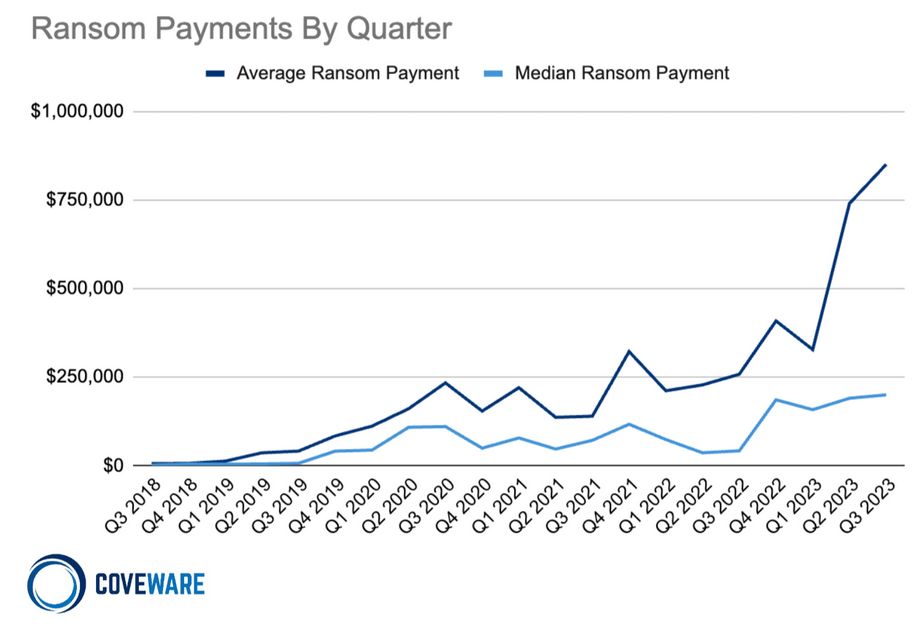
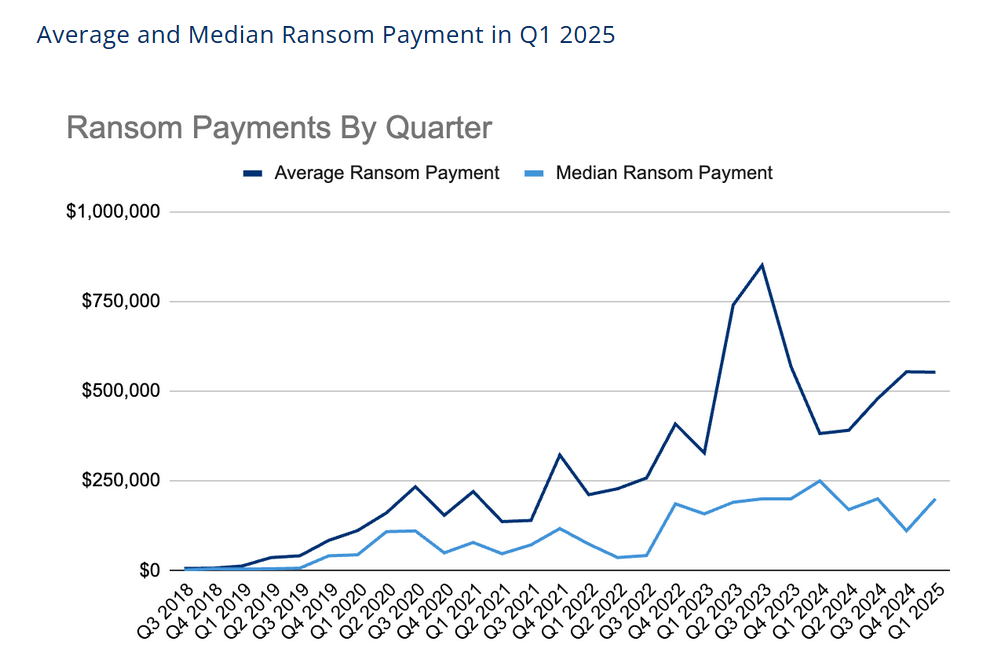
Update session: ransomware

diff --git a/slides/08-ransomware.md b/slides/08-ransomware.md
@@ -26,7 +26,8 @@ Juan Vera del Campo - <juan.vera@professor.universidadviu.com>
 1. [Incident Response](#3)
 1. [Ransomware](#11)
 1. [Examples: Venus, Conti, Babuk, LockBit](#20)
-1. [Managing an incident](#33)
+1. [Managing an incident](#34)
+1. [Recommendations and references](#43)
 
 Las transparencias de esta sesión están en inglés
 
@@ -220,7 +221,7 @@ Forensic analysts, specially if they must act as Expert Witness, are external to
 
 ![center w:30em](images/ransomware/Ransom+Payments.png)
 
-> https://www.coveware.com/blog/2023/10/27/scattered-ransomware-attribution-blurs-focus-on-ir-fundamentals
+> https://www.coveware.com/blog/2025/4/29/the-organizational-structure-of-ransomware-threat-actor-groups-is-evolving-before-our-eyes
 
 <!--
 El ransomware es uno de los mayores peligros para una compañía, y también uno de los ataques más lucrativos...
@@ -262,7 +263,7 @@ Notice:
 
 ## The infection chain
 
-![center w:35em](images/ransomware/infection-chain.png)
+![center w:30em](images/ransomware/infection-chain.png)
 
 > https://www.trendmicro.com/en_us/research/21/i/examining-the-cring-ransomware-techniques.html
 > Steps standarized in the Mitre Attack Matrix: https://attack.mitre.org/
@@ -305,10 +306,10 @@ Por ejemplo: nosotros hemos detectado el "modus operandi" asociado a APT41 varia
 
 ---
 
-![center w:35em](images/ransomware/ransomware-type.png)
+![center w:32em](images/ransomware/ransomware-type.png)
 
-> https://www.coveware.com/blog/2023/4/28/big-game-hunting-is-back-despite-decreasing-ransom-payment-amounts
-> [Main groups in 2023](https://www.blackfog.com/the-top-10-ransomware-groups-of-2023/)
+> [The organizational structure of ransomware threat actor groups is evolving before our eyes](https://www.coveware.com/blog/2025/4/29/the-organizational-structure-of-ransomware-threat-actor-groups-is-evolving-before-our-eyes)
+> [The New Ransomware Groups Shaking Up 2025](https://thehackernews.com/2025/03/the-new-ransomware-groups-shaking-up.html)
 
 <!--
 Fijaos que no hay tantas variantes de ransomware: solo unas pocas familias. Fijas también en que cambian muy rápidamente: de las 10 variantes más usadas, 5 han aparecido en los últimos 3 meses y otras 5 han desaparecido. Es un mundo que cambia MUY RAPIDAMENTE
@@ -422,31 +423,47 @@ Steps:
 
 ---
 
-![center](images/ransomware/lockbitweb.png)
+![center w:25em](images/ransomware/lockbitweb.png)
 
 The blog is in the Dark Web (onion) and the address changes frequently
 
-> https://ransomwatch.telemetry.ltd/#/profiles?id=lockbit3_fs
+> https://ransomwatch.telemetry.ltd/#/INDEX
 
 ---
 
 May 2024: lockbit defaced, again
 
-![center w:30em](images/ransomware/lockbit-deface.png)
+![center w:25em](images/ransomware/lockbit-deface.png)
 
 The mastermind behind LockBit, one of the most prolific and damaging ransomware groups in history, is a 31-year-old Russian named Dmitry Yuryevich Khoroshev, aka “LockbitSupp.”: https://www.wired.com/story/lockbitsupp-lockbit-ransomware/
+
+## Current situation (2025)
+
+- Poor quality of decryption tools. Declining rate of payments. Less skilled programmers.
+- Cyber extortion is less anonymous:
+    - [Black Basta exposed: A look at a cybercrime data leak](https://intel471.com/blog/black-basta-exposed-a-look-at-a-cybercrime-data-leak)
+    - [NCA published the identities of key Lockbit affiliates](https://www.nationalcrimeagency.gov.uk/news/lockbit-leader-unmasked-and-sanctioned)
+    - [Snowfake was identified and arrested in October](https://www.wired.com/story/connor-moucka-snowflake-hack-arrest-extradition/)
+- Supply chain is under constant threat of disturbance.
+
+> https://www.coveware.com/blog/2025/4/29/the-organizational-structure-of-ransomware-threat-actor-groups-is-evolving-before-our-eyes
 
 # Managing an incident
 <!-- _class: lead -->
 
 ---
 
-1. **Identification**: gain an idea of what the attacker did
-1. **Containment**: perform short-term containment, for example by isolating the network segment that is under attack. Then focus on long-term containment, which involves temporary fixes to allow systems to be used in production, while rebuilding clean systems.
-1. **Eradication**: remove malware from all affected systems, identify the root cause of the attack, and take action to prevent similar attacks in the future.
-1. **Recovery**: bring affected production systems back online carefully, to prevent additional attacks. Test, verify and monitor affected systems to ensure they are back to normal activity
+1. **Identification**: what happened?
+1. **Containment**: Examples: isolate the network segment that is under attack; temporary fixes to allow systems to be used in production; rebuild clean systems
+1. **Eradication**: remove malware from all affected systems; change passwords
+1. **Recovery**: bring affected production systems back online carefully
 
-## Gain a better idea of what the attacker did
+![bg right:40% w:90%](images/ransomware/incident-management.png)
+
+> https://www.eccouncil.org/cybersecurity-exchange/incident-handling/what-is-incident-response-life-cycle/
+> https://nvlpubs.nist.gov/nistpubs/specialpublications/nist.sp.800-61r2.pdf
+
+## What happened?
 
 **Initial detection rarely tells a complete story**
 
@@ -468,7 +485,19 @@ Image: https://s3-us-west-2.amazonaws.com/courses-images-archive-read-only/wp-co
 
 ![center w:25em](images/ransomware/entrypoint.png)
 
-> https://www.coveware.com/blog/2023/10/27/scattered-ransomware-attribution-blurs-focus-on-ir-fundamentals
+> https://www.coveware.com/blog/2025/4/29/the-organizational-structure-of-ransomware-threat-actor-groups-is-evolving-before-our-eyes
+
+## Techniques
+
+![center w:35em](images/ransomware/objectives.png)
+
+<!--
+- Exfiltration of data
+- Lateral movement to other PCs
+- Evasion
+- Impact: ransomware
+- C&C
+-->
 
 ---
 
@@ -497,6 +526,7 @@ Image: https://s3-us-west-2.amazonaws.com/courses-images-archive-read-only/wp-co
 ![center](images/ransomware/unplanned-backup.png)
 
 > https://www.sentinelone.com/cybersecurity-101/what-is-triple-extortion/
+> https://news.sky.com/story/who-are-scattered-spider-the-infamous-young-hacking-group-linked-to-mands-cyber-attack-13358559    
 
 <!--
 Dado que los atacantes han visto que se reducen sus ganancias porque las empresas están usando sus backups...
@@ -528,6 +558,9 @@ Reduce the money request
 
 ![bg saturate:0.5](https://www.openside.group/wp-content/uploads/2015/05/236.jpg)
 
+# Recommendations and references
+<!-- _class: lead -->
+
 ## Recommendations
 
 - Ransomware is only the last step of the attack:
@@ -542,12 +575,12 @@ Reduce the money request
 
 ## References
 
+- [John Oliver - Ransomware](https://www.youtube.com/watch?v=WqD-ATqw3js)
+- [Ransomware - Anatomy of an Attack](https://www.youtube.com/watch?v=6h9yh_A80fs) ESI & CISCO, 2018
 - [Reverse engineering of PLAY ransomware](https://chuongdong.com/reverse%20engineering/2022/09/03/PLAYRansomware/)
-- [The Most Prolific Ransomware Families: 2023 Edition](https://www.domaintools.com/resources/blog/the-most-prolific-ransomware-families-2023-edition/)
-- [2023 CrowdStrike Global Threat Report](https://www.crowdstrike.com/resources/reports/global-threat-report/). This year’s highlights include:
-    - Nation-state adversaries engaged in relentless computer network operations throughout 2022, emphasizing the integral role these operations play in supporting state goals
-    - After some of the biggest and most notorious ransomware enterprise shutdowns, ransomware affiliates moved to new ransomware-as-a-service (RaaS) operations
-    - Increase in social engineering using human interaction, such as vishing, to successfully download malware or circumvent multifactor authentication (MFA)
+- [The organizational structure of ransomware threat actor groups is evolving before our eyes](https://www.coveware.com/blog/2025/4/29/the-organizational-structure-of-ransomware-threat-actor-groups-is-evolving-before-our-eyes)
+- [The New Ransomware Groups Shaking Up 2025](https://thehackernews.com/2025/03/the-new-ransomware-groups-shaking-up.html)
+
 
 # ¡Gracias!
 <!-- _class: last-slide -->
